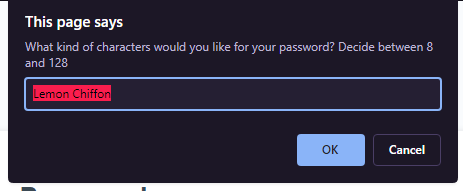
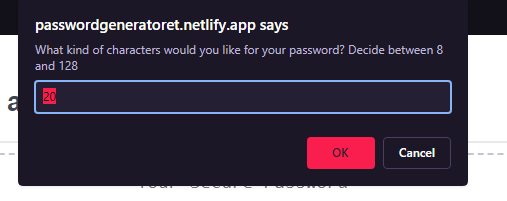
finished readme

Changed region(s): [[0.0, 0.0, 1.0, 1.0], [0.0605, 0.0785, 0.5745, 0.1832]]

diff --git a/README.md b/README.md
@@ -10,6 +10,11 @@ Create a password generator based on users selections such as special characters
 ### Prompt for no value input
 ![Displays Prompts](./assets/no-input-by-user.png)
 
+### Prompts displayed for User to choose criteria for their password
+![Display prompts](./assets/readme-images/prompts.png)
+
+### Password Generated 
+![Display prompts](./assets/readme-images/password-generated%20.png)
 
 Link for deployed page 
 https://passwordgeneratoret.netlify.app
